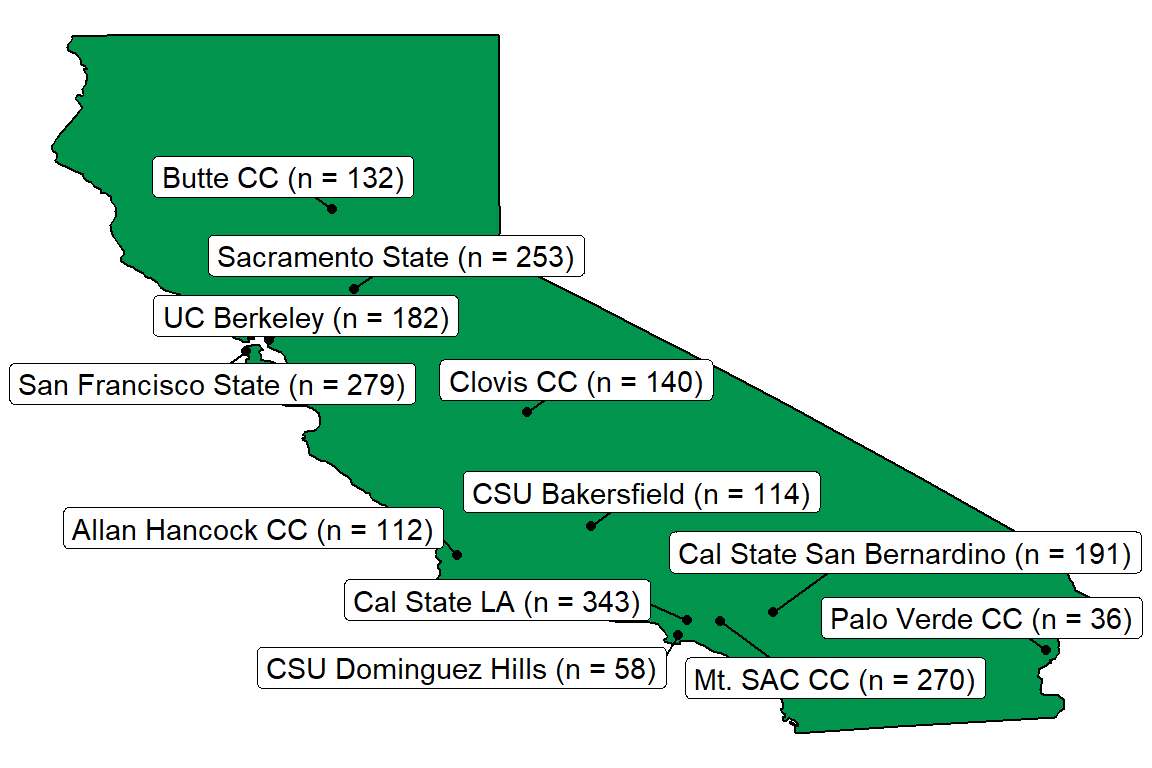
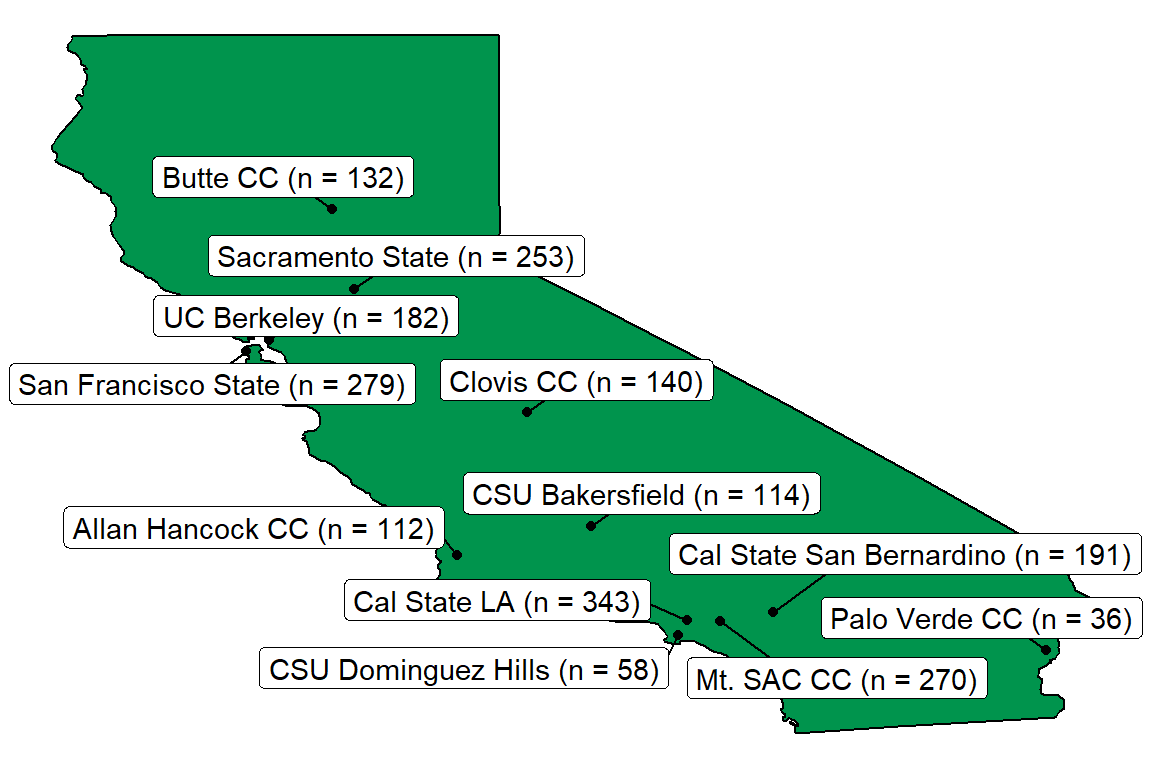
removing methods info from this branch :|

Changed region(s): [[0.4062, 0.625, 1.0, 0.75], [0.2188, 0.8438, 0.875, 0.9062], [0.0625, 0.6562, 0.375, 0.7188]]

diff --git a/docs/Demographics.html b/docs/Demographics.html
@@ -151,10 +151,6 @@ ul.task-list li input[type="checkbox"] {
 </ul>
             <ul class="navbar-nav navbar-nav-scroll ms-auto">
   <li class="nav-item">
-    <a class="nav-link" href="https://chcchicostate.org/research-evaluation/"> 
-<span class="menu-text">Related Works</span></a>
-  </li>  
-  <li class="nav-item">
     <a class="nav-link" href="./Methods.html"> 
 <span class="menu-text">Methods</span></a>
   </li>  

diff --git a/docs/index.html b/docs/index.html
@@ -147,10 +147,6 @@ ul.task-list li input[type="checkbox"] {
 </ul>
             <ul class="navbar-nav navbar-nav-scroll ms-auto">
   <li class="nav-item">
-    <a class="nav-link" href="https://chcchicostate.org/research-evaluation/"> 
-<span class="menu-text">Related Works</span></a>
-  </li>  
-  <li class="nav-item">
     <a class="nav-link" href="./Methods.html"> 
 <span class="menu-text">Methods</span></a>
   </li>  
